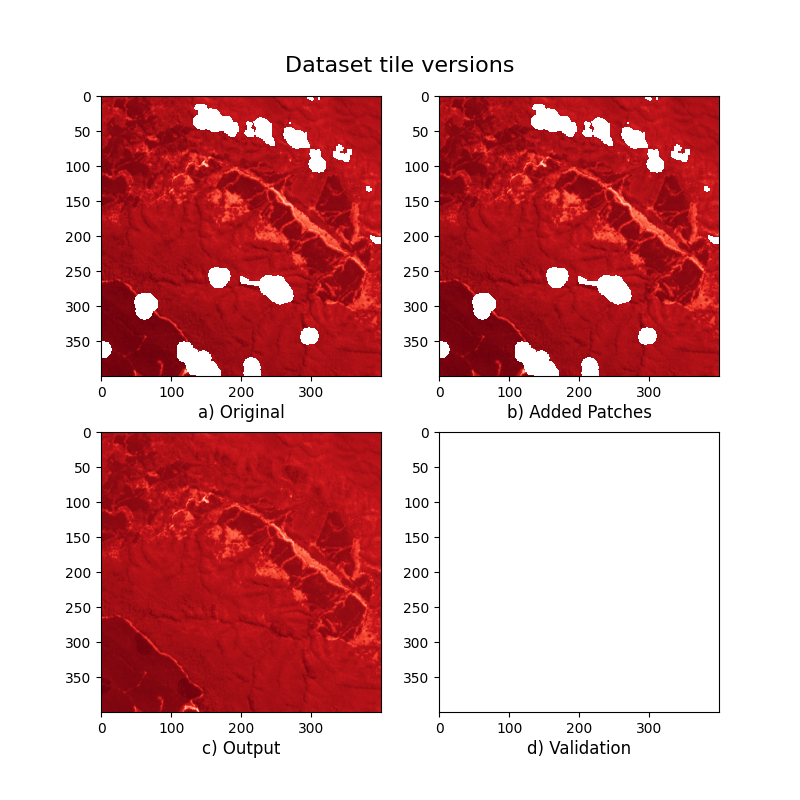
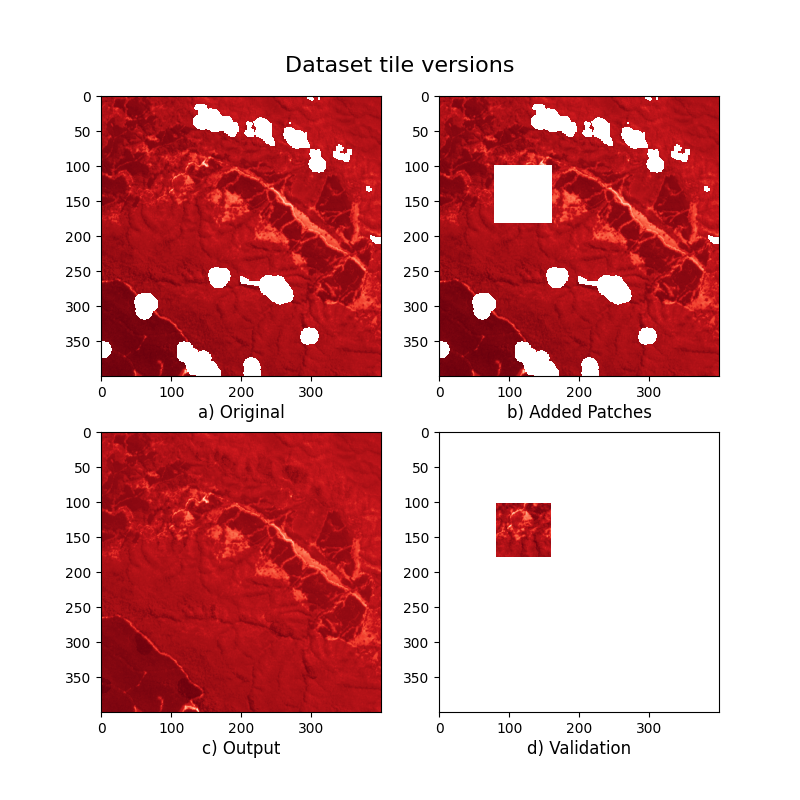
Figure 5 fixed

Changed region(s): [[0.5938, 0.625, 0.6875, 0.7188], [0.5938, 0.1875, 0.6875, 0.2812]]

diff --git a/fig5.py b/fig5.py
@@ -24,10 +24,14 @@ patch_hsize = 40
 mask = ds.nbart_blue.isnull().values
 pmask = np.zeros(mask.shape, dtype=np.bool)
 
+"""
 for _ in range(20):
     t, ii, jj = generate_patches(patch_hsize, mask)
     pmask[t, jj-patch_hsize:jj+patch_hsize, ii-patch_hsize:ii+patch_hsize] = True
+"""
 
+# For deterministic results
+pmask[10, 100:180,80:160] = True
 
 stack = ds["nbart_red"].astype(np.float32) #/ 1e4
 
